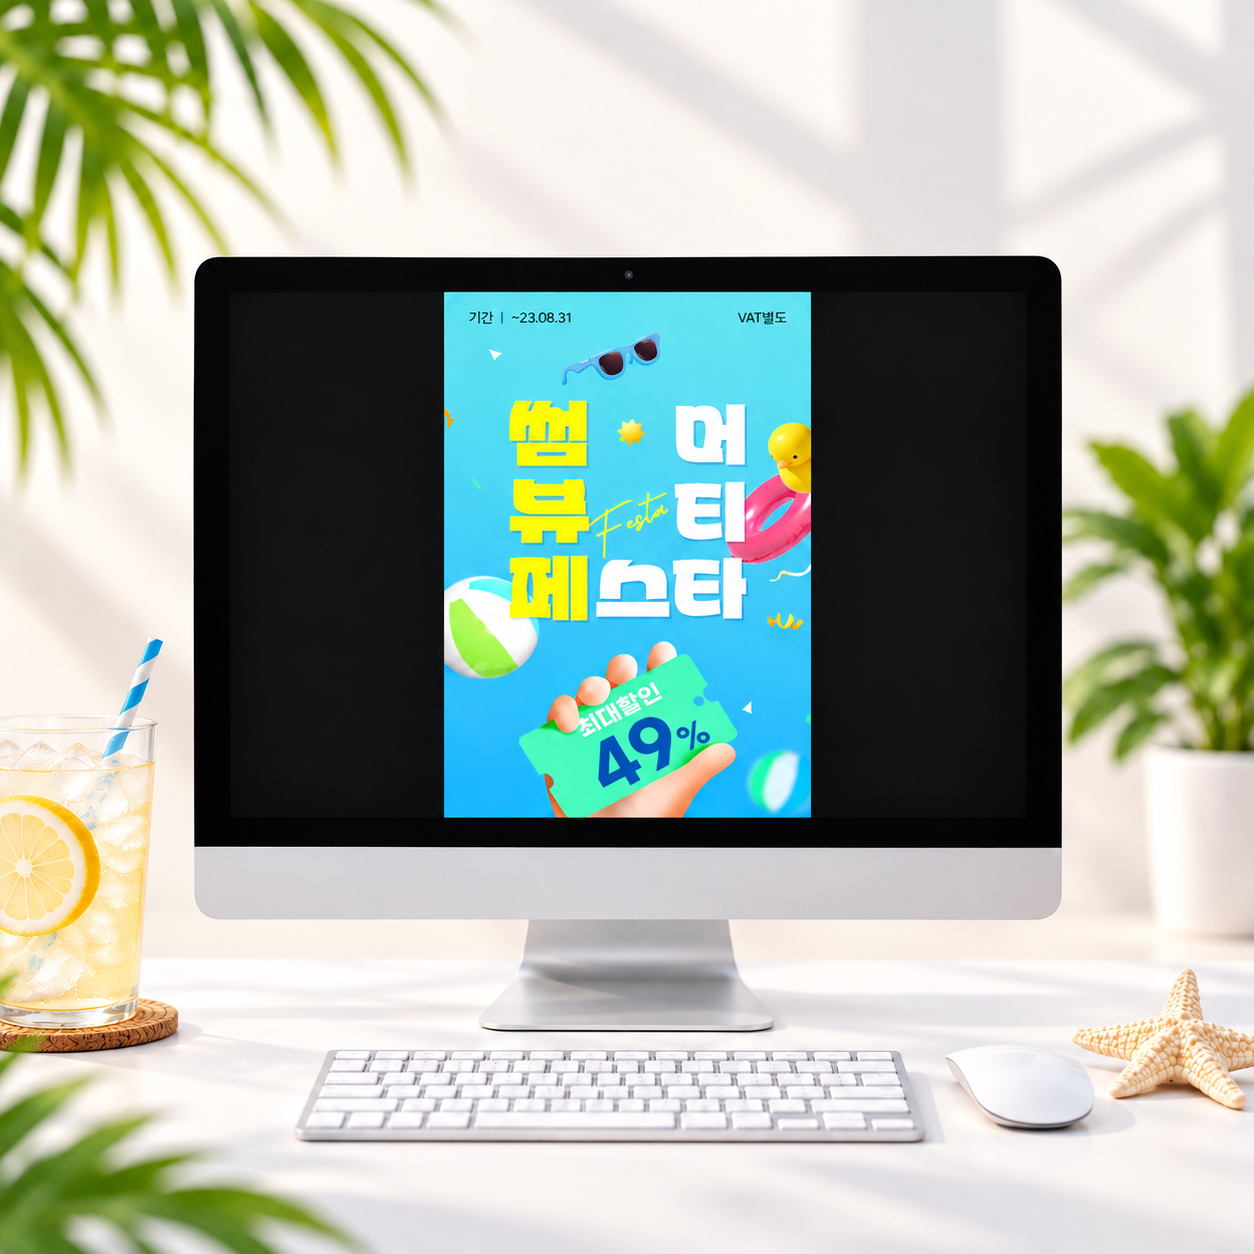
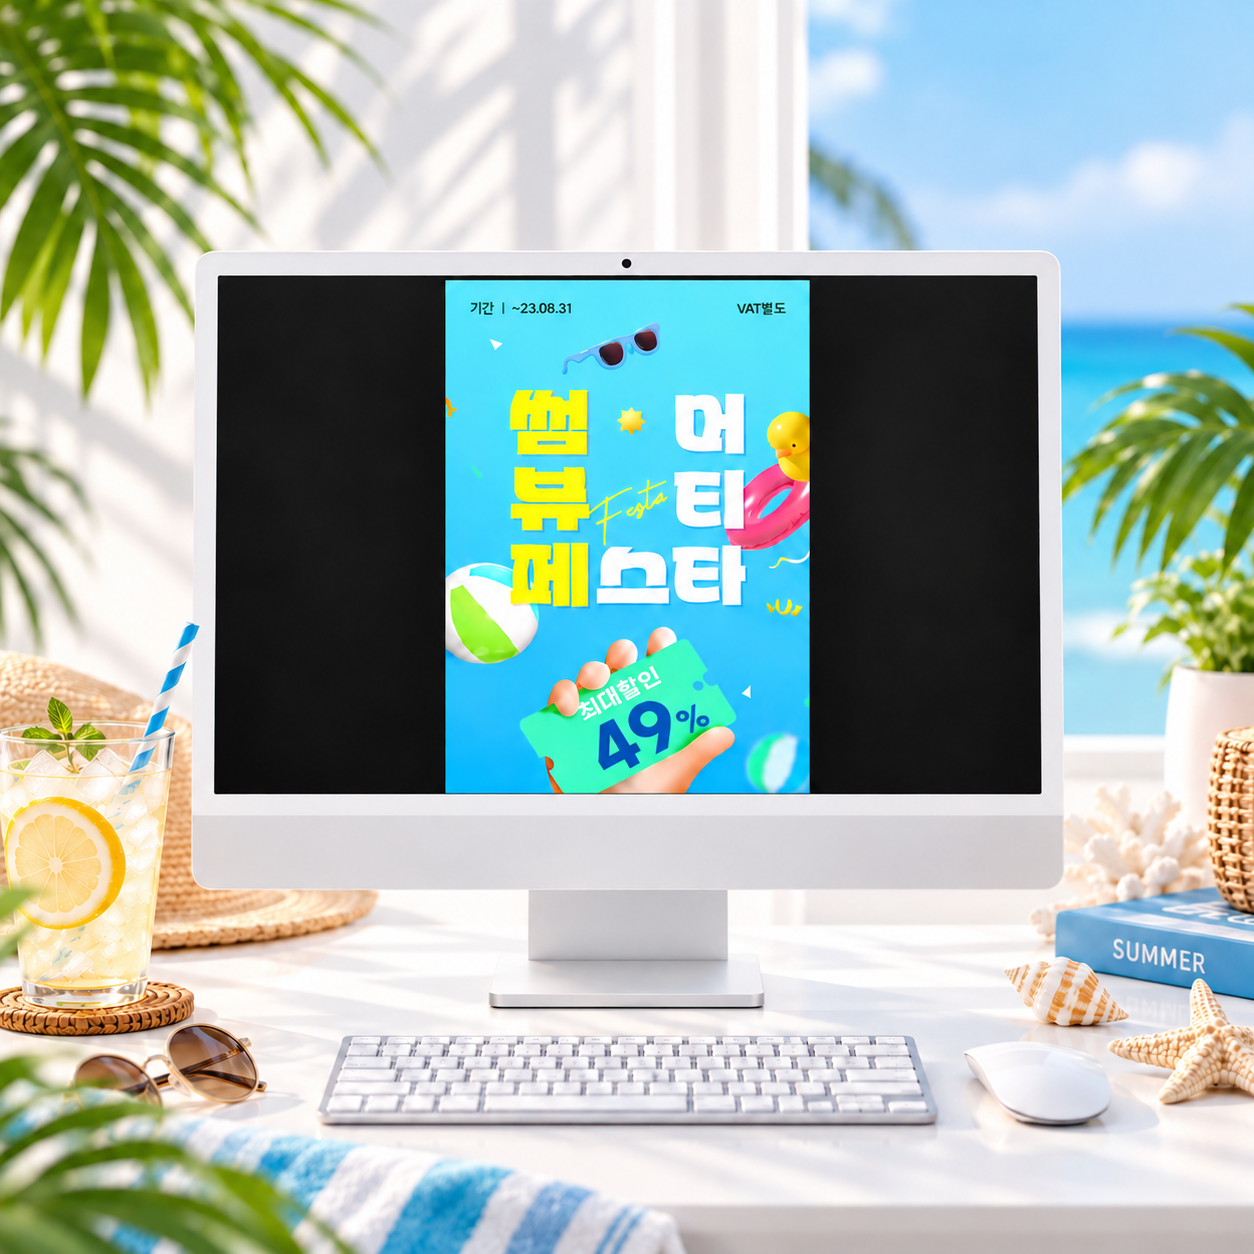
Add shopping mall event portfolio detail

diff --git a/portfolio_promo_06.html b/portfolio_promo_06.html
@@ -1,0 +1,113 @@
+<!DOCTYPE html>
+<html lang="ko">
+<head>
+    <meta charset="utf-8">
+    <meta name="viewport" content="width=device-width, initial-scale=1">
+    <title>쇼핑몰 이벤트페이지 — Boda</title>
+    <link href="css/reset.css" rel="stylesheet" type="text/css">
+    <link href="css/menu_popup.css?v=20261014-menu14" rel="stylesheet" type="text/css">
+    <link href="css/portfolio_pickgo.css?v=20261019-rounded1" rel="stylesheet" type="text/css">
+    <link href="css/portfolio_moon320.css?v=20261019-package1" rel="stylesheet" type="text/css">
+    <link href="css/portfolio_promo06.css?v=20261028-promo06-reference" rel="stylesheet" type="text/css">
+    <style>
+        @import url('https://fonts.googleapis.com/css2?family=Alegreya+Sans:wght@400&family=Noto+Sans+KR:wght@300;400;500;700;900&display=swap');
+        .pickgo-hero h1::before{content:none;}
+    </style>
+</head>
+<body>
+    <div id="wrap">
+        <div id="margin">
+            <header class="main">
+                <div class="main01">
+                    <div class="mainplus">
+                        <a class="work-back-button" href="./portfolio.html?filter=graphic" aria-label="Graphic 작업 목록으로 이동">
+                            <svg xmlns="http://www.w3.org/2000/svg" width="24" height="24" viewBox="0 0 24 24" fill="none" stroke="currentColor" stroke-width="2" stroke-linecap="round" stroke-linejoin="round" aria-hidden="true"><path d="m12 19-7-7 7-7"></path><path d="M19 12H5"></path></svg>
+                        </a>
+                    </div>
+                    <div class="mainmenu"><div>Work / Graphic</div></div>
+                    <a href="./index.html" aria-label="Boda home"><div class="mainlogo"></div></a>
+                </div>
+            </header>
+
+            <main class="pickgo-page moon320-page promo06-page">
+                <section class="pickgo-hero moon320-hero promo06-hero" aria-labelledby="promo06-title">
+                    <div class="pickgo-hero-copy">
+                        <p class="pickgo-type-label">Graphic</p>
+                        <h1 id="promo06-title">쇼핑몰<br>이벤트페이지</h1>
+                        <p class="pickgo-summary">요일마다, 새로운 옷이 새로운 음악처럼 하루에 신선한 리듬과 색을 더해 주는 쇼핑몰 이벤트 페이지입니다.</p>
+                        <div class="pickgo-rule"></div>
+                        <dl class="pickgo-meta">
+                            <div><dt>작업기간</dt><dd>약 1주</dd></div>
+                            <div><dt>프로젝트 구분</dt><dd>개인 프로젝트</dd></div>
+                            <div><dt>참여도</dt><dd>100%</dd></div>
+                            <div><dt>담당 범위</dt><dd class="pickgo-tags"><span>이벤트 기획</span><span>Gif 작업</span><span>이벤트 디자인</span><span>AI 활용 아이콘 제작</span></dd></div>
+                            <div><dt>상태</dt><dd>작업 완료</dd></div>
+                        </dl>
+                        <div class="pickgo-actions">
+                            <a class="pickgo-button pickgo-button-primary" href="#promo06-gallery">디자인 상세 보기 <span class="pickgo-external-arrow" aria-hidden="true"></span></a>
+                        </div>
+                    </div>
+                    <div class="pickgo-hero-media">
+                        <img src="images/portfolio_promotion/promotion06_main.gif" alt="쇼핑몰 이벤트 페이지 메인 화면">
+                    </div>
+                </section>
+
+                <section class="moon320-gallery promo06-gallery" id="promo06-gallery" aria-labelledby="promo06-gallery-title">
+                    <div class="moon320-gallery-heading">
+                        <div>
+                            <p class="pickgo-eyebrow">DESIGN DETAILS</p>
+                            <h2 id="promo06-gallery-title">쇼핑몰 이벤트페이지 디자인</h2>
+                        </div>
+                    </div>
+                    <div class="moon320-gallery-grid promo06-gallery-grid">
+                        <button class="moon320-gallery-item promo06-detail-card" type="button" aria-label="쇼핑몰 이벤트페이지 상세 이미지 크게 보기" data-image="images/portfolio_promotion/promotion06_lmg.png" data-alt="쇼핑몰 이벤트페이지 전체 디자인">
+                            <img src="images/portfolio_promotion/promotion06_lmg.png" alt="쇼핑몰 이벤트페이지 전체 디자인" loading="lazy">
+                        </button>
+                    </div>
+                </section>
+
+                <div class="moon320-lightbox" role="dialog" aria-modal="true" aria-label="이미지 확대 보기" aria-hidden="true">
+                    <button class="moon320-lightbox-close" type="button" aria-label="확대 이미지 닫기">×</button>
+                    <img src="" alt="">
+                </div>
+            </main>
+        </div>
+    </div>
+
+    <script>
+        (() => {
+            const lightbox = document.querySelector('.moon320-lightbox');
+            const lightboxImage = lightbox.querySelector('img');
+            const closeButton = lightbox.querySelector('.moon320-lightbox-close');
+            const galleryItem = document.querySelector('.promo06-detail-card');
+            let lastFocusedItem = null;
+
+            const closeLightbox = () => {
+                lightbox.classList.remove('is-open');
+                lightbox.setAttribute('aria-hidden', 'true');
+                lightboxImage.removeAttribute('src');
+                document.body.style.overflow = '';
+                lastFocusedItem?.focus();
+            };
+
+            galleryItem.addEventListener('click', () => {
+                lastFocusedItem = galleryItem;
+                lightboxImage.src = galleryItem.dataset.image;
+                lightboxImage.alt = galleryItem.dataset.alt;
+                lightbox.classList.add('is-open');
+                lightbox.setAttribute('aria-hidden', 'false');
+                document.body.style.overflow = 'hidden';
+                closeButton.focus();
+            });
+
+            closeButton.addEventListener('click', closeLightbox);
+            lightbox.addEventListener('click', (event) => {
+                if (event.target === lightbox) closeLightbox();
+            });
+            document.addEventListener('keydown', (event) => {
+                if (event.key === 'Escape' && lightbox.classList.contains('is-open')) closeLightbox();
+            });
+        })();
+    </script>
+</body>
+</html>

diff --git a/css/portfolio_promo06.css b/css/portfolio_promo06.css
@@ -1,0 +1,38 @@
+/* The shopping-mall detail page follows the shared Summer Beauty detail layout. */
+.promo06-page{background:#fff;}
+.promo06-page .pickgo-button-primary{background:#56c6d0;}
+
+.promo06-hero .pickgo-hero-media img{
+    width:auto;
+    max-width:100%;
+    height:min(68svh,700px);
+    object-fit:contain;
+    border:7px solid #373536;
+    border-radius:34px;
+    box-sizing:border-box;
+    box-shadow:0 10px 28px rgba(16,29,56,.08);
+}
+
+.promo06-gallery-grid{grid-template-columns:1fr;}
+.promo06-gallery-grid .promo06-detail-card{
+    display:block;
+    width:min(760px,100%);
+    margin-inline:auto;
+}
+.promo06-gallery-grid .promo06-detail-card img{
+    display:block;
+    width:100%;
+    height:auto;
+    object-fit:contain;
+}
+.promo06-gallery-grid .promo06-detail-card:hover img,
+.promo06-gallery-grid .promo06-detail-card:focus-visible img{transform:none;}
+
+@media (max-width:1090px){
+    .promo06-hero .pickgo-hero-media img{width:min(100%,620px); height:auto;}
+}
+
+@media (max-width:767px){
+    .promo06-hero .pickgo-hero-media img{width:100%; height:auto; border-width:5px; border-radius:22px;}
+    .promo06-gallery-grid .promo06-detail-card{width:100%;}
+}

diff --git a/js/slideShow.js b/js/slideShow.js
@@ -64,6 +64,14 @@ document.addEventListener('DOMContentLoaded', function () {
             href: './portfolio_event.html'
         },
         {
+            id: 'shopping-mall-event',
+            title: '쇼핑몰 이벤트페이지',
+            category: 'graphic',
+            label: 'Graphic',
+            thumbnail: 'images/portfolio_promotion/promotion06_thumbnail.png',
+            href: './portfolio_promo_06.html'
+        },
+        {
             id: 'save-the-polar-bear',
             title: 'Save the Polar Bear',
             category: 'motion',

diff --git a/portfolio.html b/portfolio.html
@@ -2,6 +2,7 @@
 <html>
     <head>
         <meta charset="utf-8">
+        <meta name="viewport" content="width=device-width, initial-scale=1.0">
         <title>LOOK WIDER</title>
         <link href="css/reset.css" rel="stylesheet" type="text/css"/>
         <link href="css/style_portfolio.css?v=20261018-work-arrow8" rel="stylesheet" type="text/css"/>
